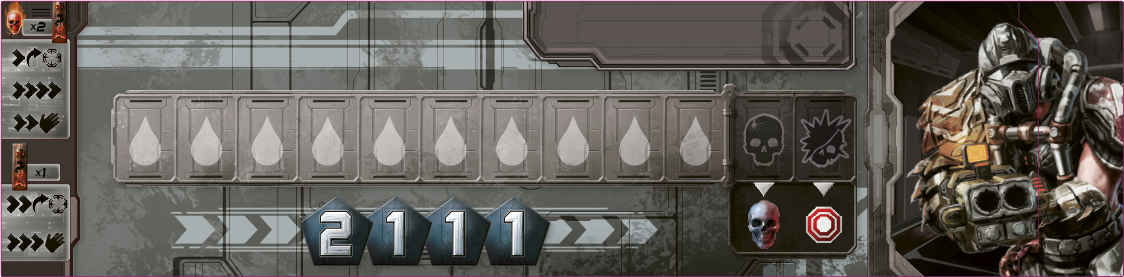
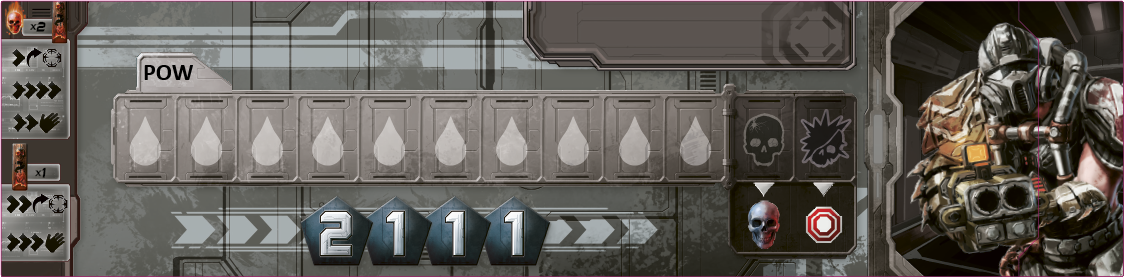
Added the possibility to choose to use a power

Changed region(s): [[0.1246, 0.1733, 0.218, 0.3466]]

diff --git a/src/main/java/it/polimi/ingsw/view/Gui.java b/src/main/java/it/polimi/ingsw/view/Gui.java
@@ -34,6 +34,7 @@ public class Gui extends Application{
     static String imgRoot = "/images/";//for the entire package only
     final static String MYFONT = "Verdana";
     final static double SETTINGSFONTDIM = 28;
+    final static double POPUPFONTDIM = 24;
 
     //Ui Executor
     private static Executor uiExec = Platform::runLater ;
@@ -61,6 +62,7 @@ public class Gui extends Application{
     private GuiCardClickableArea shootAction;
     private GuiCardClickableArea adrPickAction;
     private GuiCardClickableArea adrShootAction;
+    private GuiCardClickableArea powerAction;
 
     //Move in cells
     private GuiCardClickableArea[][] mapOfCells = new GuiCardClickableArea[4][3];
@@ -170,7 +172,8 @@ public class Gui extends Application{
         cellsClick.setPickOnBounds(false);
 
         //infoTextCanvas needs to be before the clickable ones because the PickOnBounds doesn't work
-        masterPane.getChildren().addAll( canvas, infoTextCanvas,  myWeapons, MyPowers, weaponsLoot, mapLoot, cellsClick, pawns, runAction, pickAction, shootAction, adrPickAction, adrShootAction);
+        masterPane.getChildren().addAll( canvas, infoTextCanvas,  myWeapons, MyPowers, weaponsLoot, mapLoot, cellsClick, pawns,
+                runAction, pickAction, shootAction, powerAction, adrPickAction, adrShootAction);
 
         return masterPane;
     }
@@ -465,6 +468,7 @@ public class Gui extends Application{
             shootAction = new GuiCardClickableArea(x, y + 3*actionsY, actionsWidth, actionsHeight);
 
             actionsY = ((float)56)/ 270 * height;
+            powerAction = new GuiCardClickableArea(x + ((float)120)/1121*width, y+actionsY, actionsWidth, actionsHeight);
             adrPickAction = new GuiCardClickableArea(x + ((float)230)/1121*width, y+actionsY, actionsWidth, actionsHeight);
             adrShootAction = new GuiCardClickableArea(x + ((float)423)/1121*width, y+actionsY, actionsWidth, actionsHeight);
         }
@@ -691,6 +695,10 @@ public class Gui extends Application{
                     adrShootAction.setOnMousePressed(onClick);
                     adrShootAction.setEventsChoosable();
                     break;
+                case "a-p":
+                    powerAction.setOnMousePressed(onClick);
+                    powerAction.setEventsChoosable();
+                    break;
                 default:
                     break;
                 //todo add the finalfrenzy ones
@@ -722,11 +730,11 @@ public class Gui extends Application{
         double w = backgroundWidth * 0.6;
         double h = backgroundHeight * 0.6;
         double r = 100 * dimMult;
-        double cardX = backgroundWidth * 0.23;
+        double cardX = backgroundWidth * 0.215;
         double cardY = backgroundHeight * 0.23;
         double cardH = backgroundHeight * 0.54;
         double cardW = cardH * ((double) 104)/174;
-        double xGridText = backgroundWidth * 0.26 + cardW;
+        double xGridText = backgroundWidth * 0.24 + cardW;
         double yGridText = backgroundHeight * 0.23;
 
         //backround
@@ -740,21 +748,22 @@ public class Gui extends Application{
 
         //Text and button
         GridPane grid = gridMaker(backgroundWidth * 0.8 - xGridText - 20*dimMult);
+        grid.setVgap(4);
         popupPane.getChildren().addAll(grid);
-        double titleDim = SETTINGSFONTDIM * 1.3;
         int row = 0;
         for(Action a: possible) {
             Label title = new Label(a.getName());
-            title.setFont(new Font(MYFONT,titleDim*dimMult));
+            title.setFont(new Font(MYFONT,POPUPFONTDIM * 1.3 * dimMult));
             title.setWrapText(true);
             grid.add(title,0,row++);
 
             Label description = new Label(a.getDescription());
-            description.setFont(new Font(MYFONT,SETTINGSFONTDIM*dimMult));
+            description.setFont(new Font(MYFONT,POPUPFONTDIM*dimMult));
             description.setWrapText(true);
             grid.add(description,0,row++);
 
             Button buttonAction = new Button("Usa " + a.getName());
+            //buttonAction.setFont(new Font(MYFONT,titleDim*dimMult));
             buttonAction.setOnAction((e)->{
                 System.out.println("Scelto: " + a.getName());
                 exchanger.setAnswer(a);

diff --git a/src/main/java/it/polimi/ingsw/view/GuiInterface.java b/src/main/java/it/polimi/ingsw/view/GuiInterface.java
@@ -45,7 +45,7 @@ public class GuiInterface implements UserInterface{
 */
             this.updateGame(initForTest());
 
-            List<Player> players = new ArrayList<>();
+            /*List<Player> players = new ArrayList<>();
 
             players.add(new Player("p4", "!", Fighter.BANSHEE));
             players.add(new Player("p5", "!", Fighter.DOZER));
@@ -54,7 +54,7 @@ public class GuiInterface implements UserInterface{
             actions.add(new Action("trdsbdnbnbfy", "asvdsbsd", null, "w2-a"));
             actions.add(new Action("try", "asvdsjnzfjbn jdzfnbkjdzfnbjknzfjbjzfdnbjzfndbjzdhjfjzfnvbjdf<nvijzdnfijbnbsd", null, "w2-a"));
 
-            this.chooseAction(actions, false);
+            this.chooseAction(actions, false);*/
 
             //Player choosen = chooseTarget(players, true);
 
@@ -66,7 +66,7 @@ public class GuiInterface implements UserInterface{
             Action cho = chooseAction(a, true);
 
             System.out.println(cho.getName());
-
+*/
             List<Point> dest = new ArrayList<>();
             dest.add(new Point(0,0));
             dest.add(new Point(0,1));

diff --git a/src/main/java/it/polimi/ingsw/view/GuiCardClickableArea.java b/src/main/java/it/polimi/ingsw/view/GuiCardClickableArea.java
@@ -14,8 +14,8 @@ public class GuiCardClickableArea extends GuiCard {
 
     @Override
     public void setEventsChoosable() {
-        getGraphicsContext2D().setStroke(javafx.scene.paint.Color.WHITE);
-        getGraphicsContext2D().setLineWidth(5);
+        getGraphicsContext2D().setStroke(javafx.scene.paint.Color.rgb(255,255,255,0.6));
+        getGraphicsContext2D().setLineWidth(7);
         getGraphicsContext2D().strokeRect(0,0,w, h);
         super.setEventsChoosable();
     }
